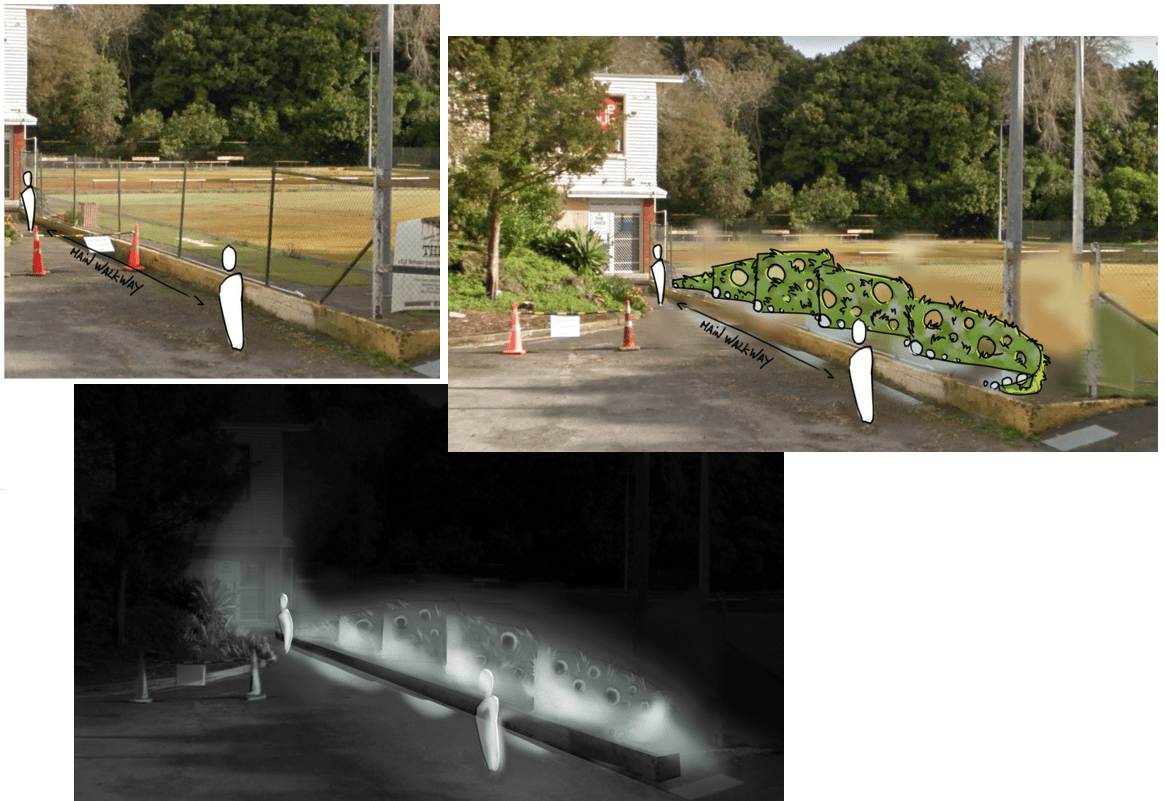
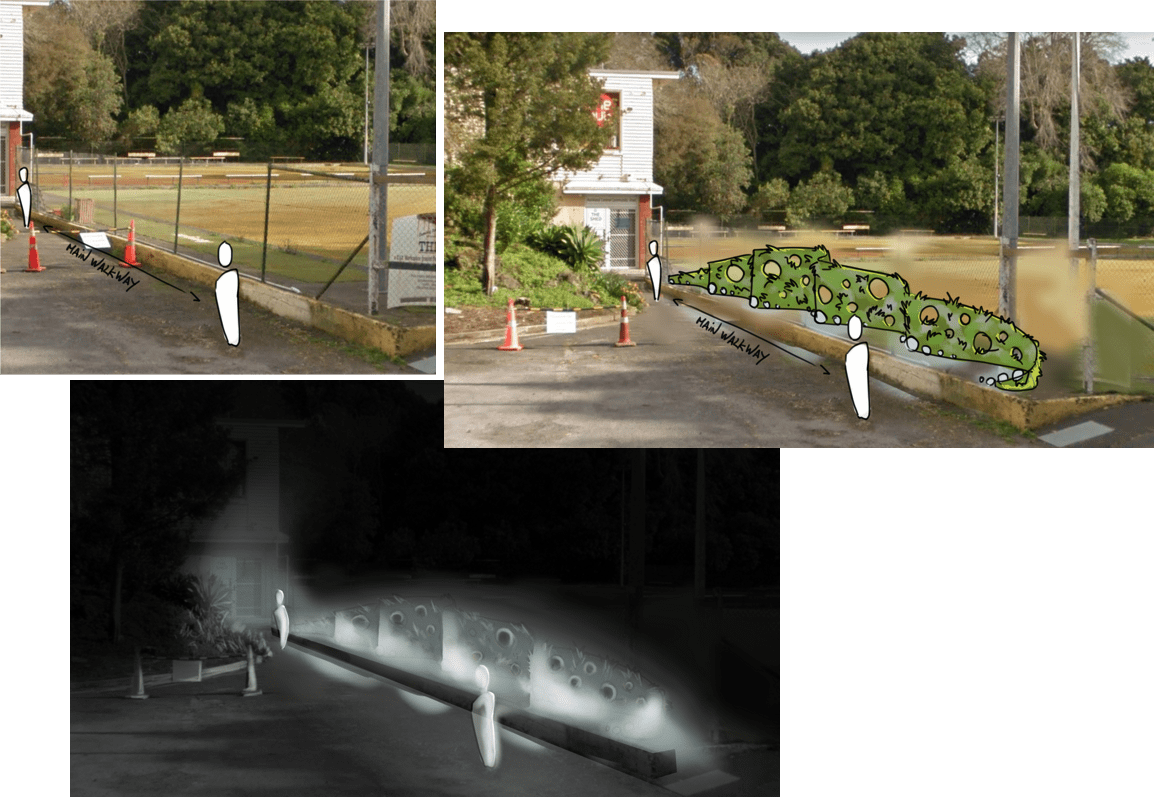
writing about the project
additional writing

diff --git a/project_livingwall.html b/project_livingwall.html
@@ -28,7 +28,7 @@
     <nav class="navbar navbar-expand-lg fixed-top navbar-default" color-on-scroll="300">
         <div class="container">
 			<div class="navbar-translate">
-				<a href = index.html class="navbar-brand" >Pocket Lab | Living Wall</a>
+				<a href = index.html class="navbar-brand" >Pocket Lab | Interactive Living Wall</a>
 	            <button class="navbar-toggler navbar-toggler-right navbar-burger" type="button" data-toggle="collapse" data-target="#navbarToggler" aria-controls="navbarTogglerDemo02" aria-expanded="false" aria-label="Toggle navigation">
 					<span class="navbar-toggler-bar"></span>
 					<span class="navbar-toggler-bar"></span>
@@ -41,18 +41,12 @@
 								  <li class="nav-item">
 
 									</li>
-					        <li class="nav-item">
-	                    <a href="#INTRODUCTION" class="nav-link"><i class="nc-icon nc-bookmark-2"></i>Introduction</a>
-	                </li>
 									<li class="nav-item">
-										  <a href="#IDEATION" class="nav-link"><i class="nc-icon nc-bulb-63"></i>Ideation</a>
+										  <a href="#IDEATION" class="nav-link"><i class="nc-icon nc-bulb-63"></i>Ideation and Prototyping</a>
 								  </li>
 									<li class="nav-item">
-										  <a href="#DESIGN" class="nav-link"><i class="nc-icon nc-settings"></i>Design</a>
+										  <a href="#WORKSHOP" class="nav-link"><i class="nc-icon nc-settings"></i>First Workshop</a>
 								  </li>
-	                <li class="nav-item">
-										  <a href="#PROTOTYPING" class="nav-link"><i class="nc-icon nc-spaceship"></i>Prototyping</a>
-									</li>
 									<li class="nav-item">
 	                    <a href="#TEAM" class="nav-link"><i class="nc-icon nc-circle-10"></i>Team</a>
 	                </li>
@@ -80,14 +74,14 @@
 		</div>
     </nav>
 
-		<div class="page-header" data-parallax="true" style="background-image: url('assets/img/projectdomedome/construction03.png');">
+		<div class="page-header" data-parallax="true" style="background-image: url('assets/img/projectlivingwall/09.png');">
 		<!--<div class="page-header" data-parallax="true" style="background-image: url('../assets/img/FabCityLab_render.png');">-->
 			<div class="filter"></div>
 			<div class="container">
 
 			    <div class="motto text-center">
 
-							<h1><b>Living Wall</b></h1>
+							<h1><b>Interactive Living Wall</b></h1>
 							<h5>- Collaborative Project -</h5>
 			    </div>
 			</div>
@@ -98,10 +92,10 @@
             <div class="container">
                 <div class="row">
                     <div class="col-md-8 ml-auto mr-auto">
-                        <h2 id="INTRODUCTION" class="title"> Living Wall :<br> subtitle </h2>
+                        <h2 id="INTRODUCTION" class="title"> Interactive Living Wall :<br> Growing Food on a Pocket-sized Space </h2>
 												<h5 class="description">
-													Introduction Bla Bla Bla</h5>
-														<img src="assets/img/projectdomedome/GeodesicDome.png" alt="GeodesicDome" style="width:100%;">
+													Some of us are exploring the potential for growing edible plants off-soil within an urban area, expanding the growing space upwards.</h5>
+
 												 <br>
 												 <br><br><br>
                     </div>
@@ -114,7 +108,7 @@
 					      <div class="container">
 					        <h2 id="CONTACT" class="title">The Basic Stuff <br> and <br> How to get involved </h2>
 
-									<h5 class="description"> This project is funded by members, and donations of any kind are welcome. We are happy for anyone to partake in the building effort, or help us gather all items required to make the domes - see the list <a href = https://docs.google.com/spreadsheets/d/1qr4bfTOLn3ziV3NuSpAo_XpXvked8p5GF-o4H_BDfUU/edit?usp=sharing>right here</a>.</h5>
+									<h5 class="description"> This project has initially received funding under the Creative Communites Scheme - nzd $1500 - covering purchase of material. The brain juice and muscle power is generously donated by a team of green geeks in their spare time. Any donations of any kind are welcome. Everyone is welcome to partake in the building effort, or help us gather all items required to make it happen.</h5>
 									<h5 class="description"> If you wish to participate, drop us a line using the form below - Many thanks!</h5>
 
                   <!-- contact Form -->
@@ -158,62 +152,47 @@
 
 													<br><br><br>
 
-<!--Inspiration-->
+<!--Ideation and Prototyping-->
 			<div class="section section-gray text-center">
             <div class="container">
                 <div class="row">
                     <div class="col-md-8 ml-auto mr-auto">
-                        <h2 id="IDEATION" class="title">Ideation</h2>
+                        <h2 id="IDEATION" class="title">Ideation and Prototyping</h2>
 											  <br><br><br>
 												<h5 class="description" ><i>- September 2018 -</i></h5>
 												<br><br>
 												<img src="assets/img/projectlivingwall/01.png" alt="01" style="width:100%;">
-													<h5 class="description" align = right ><small><i>Inital design for the Creative Community funding scheme</i></small></h5>
+													<h5 class="description" align = right ><small><i>Inital design for the Creative Communities Scheme</i></small></h5>
 												<br><br>
 
-												<h5 class="description"> Funding for creative community and the general idea. But then no makercrate so abandoned. Booooooh. </h5>
+												<h5 class="description"> The concept of vertical gardening is not new and makes sense if feeding a community of individuals with little floor space available. It has been relentlessly used in urban areas as a response to the spread of cities swallowing the countryside. It is a natural solution to keep food production hyper-local for city-dwellers. </h5>
+												<h5 class="description"> The project was initially pitched to the Creative Communities Scheme as an art installation, bringing forward the opportunities of gathering locals around a fun, low tech outdoor project, learning about growing food and designing an interactive piece of art along a walkway.</h5>
+												<h5 class="description"> While the funding was partially successful, none of it was dedicated to relocate a <a href = http://www.fabriko.org.nz/makercrate-1> rapid prototyping, mobile space </a> containing the many tools required for the fabrication of the wall. Therefore the opportunity to teach and learn about electronics and digital fabrication - an essential part of the deal to receive funding - faded, and the project was set aside.</h5>
+
+												<br><br>
+												<h5 class="description" ><i>- February 2019 -</i></h5>
 												<br>
-												<h5 class="description" ><i>- September 2018 -</i></h5>
-												<br><br>
 
-												<h5 class="description"> Revisit of the concept and revival of the project - rapid prototyping. Also, it glows in the dark yeaaaaah </h5>
+												<h5 class="description"> The concept was picked back up a few months later, and its design revisited. Playing with the idea of making the wall out of material majoritarily upcycled/diverted from the landfill, the design was dictated by the items available, using the very convenient <a href = https://www.ecomatters.org.nz/zero-waste/waste-broker/adopt-a-resource/>"adopt a resource" </a> Ecomatters Environment Trust webpage. </h5>
 	                      <br><br>
 												<img src="assets/img/projectlivingwall/02.png" alt="02" style="width:100%;">
-													<h5 class="description" align = right ><small><i>Revisit of the design</i></small></h5>
-												<br><br>
+													<h5 class="description" align = right ><small><i>Revisit of the design and first prototype</i></small></h5>
+													<br>
 
-												<br>
 												<img src="assets/img/projectlivingwall/03.png" alt="03" style="width:100%;">
-													<h5 class="description" align = right ><small><i> at night</i></small></h5>
-												<br><br>
-
-												<h5 class="description"> Testing out diffferent options, fitting the future fishy fish tank fish </h5>
+													<h5 class="description" align = right ><small><i> Several types of openings for future plants and Testing for lighting at night</i></small></h5>
 												<br>
+
 												<img src="assets/img/projectlivingwall/04.png" alt="04" style="width:100%;">
-													<h5 class="description" align = right ><small><i>testing </i></small></h5>
-												<br><br>
+													<h5 class="description" align = right ><small><i>Maximising the use of the space by creating a double sided wall </i></small></h5>
+												<br>
 
 												<img src="assets/img/projectlivingwall/05.png" alt="05" style="width:100%;">
-													<h5 class="description" align = right ><small><i>Irriguation system</i></small></h5>
-												<br><br>
-												<h5 class="description" ><i>- September 2018 -</i></h5>
-												<h5 class="description"> Inviting our mates for a workshop </h5>
-												<br>
-												<img src="assets/img/projectlivingwall/06.png" alt="06" style="width:100%;">
-													<h5 class="description" align = right ><small><i>The prep before everyone arrives</i></small></h5>
+													<h5 class="description" align = right ><small><i>Prototyping the automated irriguation system</i></small></h5>
 												<br><br>
 
-												<img src="assets/img/projectlivingwall/07.png" alt="07" style="width:100%;">
-													<h5 class="description" align = right ><small><i>Building some cool shit</i></small></h5>
-												<br><br>
+													<h5 class="description"> It took a few days to reach a satisfactory prototype that we really wanted to share with other curious minds to allow the project to expand. Running a workshop open for all seemed rushed, but the idea of opening up the space to some friends as a testing ground seemed ideal. </h5>
 
-												<img src="assets/img/projectlivingwall/08.png" alt="08" style="width:100%;">
-													<h5 class="description" align = right ><small><i>testing different growing medium</i></small></h5>
-												<br><br>
-
-												<img src="assets/img/projectlivingwall/09.png" alt="09" style="width:100%;">
-													<h5 class="description" align = right ><small><i>The first vertical lettuce :) /</i></small></h5>
-												<br><br>
 
 
                     </div>
@@ -222,32 +201,39 @@
 						</div>
 
 
-<!--Ideation-->
+<!--First Workshop-->
 <div class="section text-center">
 			<div class="container">
 					<div class="row">
 							<div class="col-md-8 ml-auto mr-auto">
-									<h2 id="DESIGN" class="title">Another title</h2>
+									<h2 id="WORKSHOP" class="title">First Workshop</h2>
+                  <br>
+									<h5 class="description" ><i>- March 2019 -</i></h5>
+
+									<br>
+									<img src="assets/img/projectlivingwall/06.png" alt="06" style="width:100%;">
+										<h5 class="description" align = right ><small><i>The space ready to welcome everyone for a workshop</i></small></h5>
+									<br><br>
+
+									<h5 class="description"> On a Wednesday afternoon, we collected a fair amount of material, snacks and drinks, ready to welcome everyone. During the following hours we juggled between tasks and groups to offer to our guests the opportunity to partake in our project. We did our best to do so in a way that was meaningful to them, tailoring the tasks according to their skills or interests.</h5>
+                  <br>
+									<img src="assets/img/projectlivingwall/07.png" alt="07" style="width:100%;">
+										<h5 class="description" align = right ><small><i>Designing a second wall and Testing different types of growing mediums</i></small></h5>
+									<br><br>
+
+									<h5 class="description"> Friends of friends decided to swing by, and passerbys joined the conversation. We got to hear more from other knowledgeable participants and the space, usually empty, felt alive for the duration of this gathering.</h5>
+                  <br>
+									<img src="assets/img/projectlivingwall/09.png" alt="09" style="width:100%;">
+										<h5 class="description" align = right ><small><i> The first "vertical" lettuce of the wall. </i></small></h5>
+									<br><br>
+
+										<h5 class="description"> This first workshop was very insightful, helping us appreciate what was required to run a successful event. We are now hoping to be able to extend the funding period to provide this activity over the next months, grow the crowd and turn this prototype into a fully functional system. </h5>
 
 									<br>
 							</div>
 					</div>
 			</div>
 </div>
-
-<!--prototyping-->
-			<div class="section section-gray text-center">
-            <div class="container">
-                <div class="row">
-                    <div class="col-md-8 ml-auto mr-auto">
-                        <h2 id="PROTOTYPING" class="title">And Another One</h2>
-
-												<br>
-                    </div>
-                </div>
-							</div>
-						</div>
-
 
 <!--Meet the team-->
 							<div class="section text-center">
@@ -274,6 +260,27 @@
 					                            </div>
 					                            <div class="card-footer text-center">
 					                                <a href="https://www.linkedin.com/in/jean-baptiste-natali-ginoux-026b7229/" class="btn btn-link btn-just-icon btn-default"><i class="fa fa-linkedin"></i></a>
+					                            </div>
+					                        </div>
+					    				</div>
+											<div class="col-md-4">
+					                        <div class="card card-profile card-plain">
+					                            <div class="card-avatar">
+					                                <a href="#avatar"><img src="assets/img/faces/tom-peters.jpg" alt="..."></a>
+					                            </div>
+					                            <div class="card-body">
+					                                <a href="#paper-kit">
+					                                    <div class="author">
+					                                        <h4 class="card-title">Tom Peters</h4>
+					                                        <h6 class="card-category">Thoughtful Strategist <br>and<br> Professional Trash Panda</h6>
+					                                    </div>
+					                                </a>
+					                                <p class="card-description text-center">
+					                                A background in science applied to solving environmental issues. Avid nature enthusiast likely be out getting lost in some far flung corner of the country.
+					                                </p>
+					                            </div>
+					                            <div class="card-footer text-center">
+					                                <a href="https://www.ecomatters.org.nz/our-team/" class="btn btn-link btn-just-icon btn-default"><i class="fa fa-linkedin"></i></a>
 					                            </div>
 					                        </div>
 					    				</div>
@@ -327,6 +334,42 @@
 					                        </div>
 					    				</div>
 											<div class="col-md-4">
+					                        <div class="card card-profile card-plain">
+					                            <div class="card-avatar">
+					                                <a href="#avatar"><img src="assets/img/ecomatters_logo.png" alt="..."></a>
+					                            </div>
+					                            <div class="card-body">
+					                                <a href="#paper-kit">
+					                                    <div class="author">
+					                                        <h4 class="card-title">EcoMatters Environment Trust</h4>
+					                                        <h6 class="card-category">Source of Second-Hand Goodies</h6>
+					                                    </div>
+					                                </a>
+					                                <p class="card-description text-center">
+					                                 Through the "Adopt a resource" program, EcoMatters has supported our initiative.<br> Based in Auckland in Aotearoa New Zealand, <a href = https://www.ecomatters.org.nz/>EcoMatters</a> is an established charitable trust that was formed in 2002. EcoMatters work with and for the community to deliver environmental initiatives in partnership with key entities like Auckland Council, the Ministry for the Environment, other not-for-profits and community groups.
+					                                </p>
+					                            </div>
+					                        </div>
+					    				</div>
+											<div class="col-md-4">
+																	<div class="card card-profile card-plain">
+																			<div class="card-avatar">
+																					<a href="#avatar"><img src="assets/img/ccs-logo-auckland-council.jpg" alt="..."></a>
+																			</div>
+																			<div class="card-body">
+																					<a href="#paper-kit">
+																							<div class="author">
+																									<h4 class="card-title">Creative Communities Scheme</h4>
+																									<h6 class="card-category">Crown entity <br> governed by the Arts Council</h6>
+																							</div>
+																					</a>
+																					<p class="card-description text-center">
+																					<a href = http://www.creativenz.govt.nz/>Creative New Zealand</a> has supported this project with a funding of $ 1500.<br> Creative New Zealand encourages, promotes and supports the arts in New Zealand for the benefit of all New Zealanders through funding, capability building, our international programme and advocacy.
+																				</p>
+																			</div>
+																	</div>
+											</div>
+											<div class="col-md-4">
 																	<div class="card card-profile card-plain">
 																			<div class="card-avatar">
 																					<a href="#avatar"><img src="assets/img/fabcitylogo.png" alt="..."></a>
@@ -344,24 +387,6 @@
 																			</div>
 																	</div>
 											</div>
-					    				<div class="col-md-4">
-					                        <div class="card card-profile card-plain">
-					                            <div class="card-avatar">
-					                                <a href="#avatar"><img src="assets/img/Open-source.jpg" alt="..."></a>
-					                            </div>
-					                            <div class="card-body">
-					                                <a href="#paper-kit">
-					                                    <div class="author">
-					                                        <h4 class="card-title">Various Contributors from the Open-source World</h4>
-					                                        <h6 class="card-category">We cannot thank you enough</h6>
-					                                    </div>
-					                                </a>
-					                                <p class="card-description text-center">
-					                                Many thanks to <a href = https://www.creative-tim.com/>Creative Tim </a>, for allowing us to use this sparkling Bootstrap template, <a href = https://krita.org/en/> The Krita Foundation </a>, for designing a professional open source painting program used here on a daily basis.
-					                                </p>
-					                            </div>
-					                        </div>
-					    				</div>
 					    			</div>
 					        	</div>
 					    	</div>
@@ -378,7 +403,7 @@
 				</nav>
 				<div class="credits ml-auto">
 					<span class="copyright">
-						© <script>document.write(new Date().getFullYear())</script>, made with <i class="fa fa-heart heart"></i> at Hackland and Fab City Aotearoa
+						© <script>document.write(new Date().getFullYear())</script>, made with <i class="fa fa-heart heart"></i> at the Pocket Lab
 					</span>
 				</div>
 			</div>
